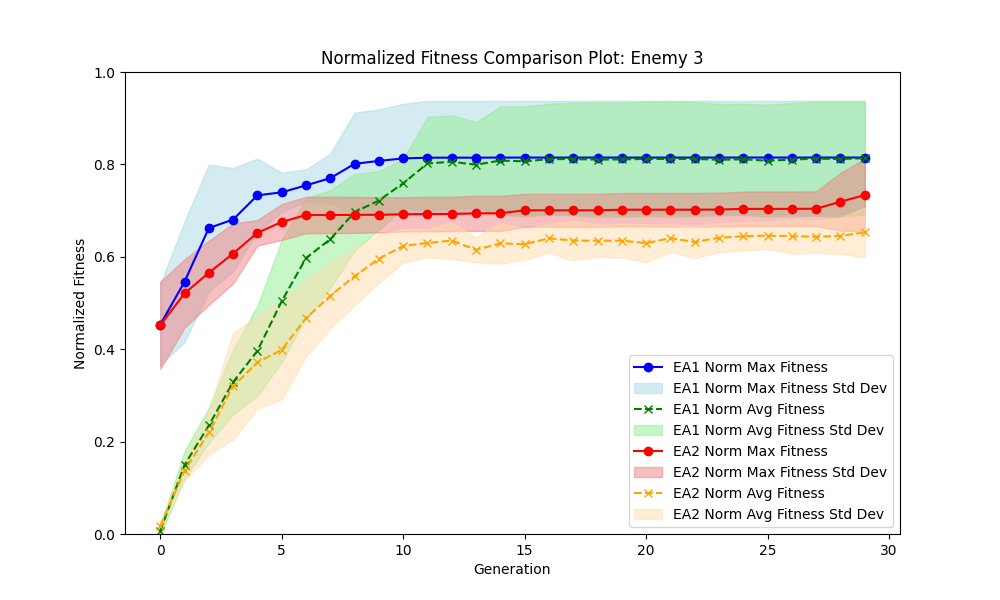
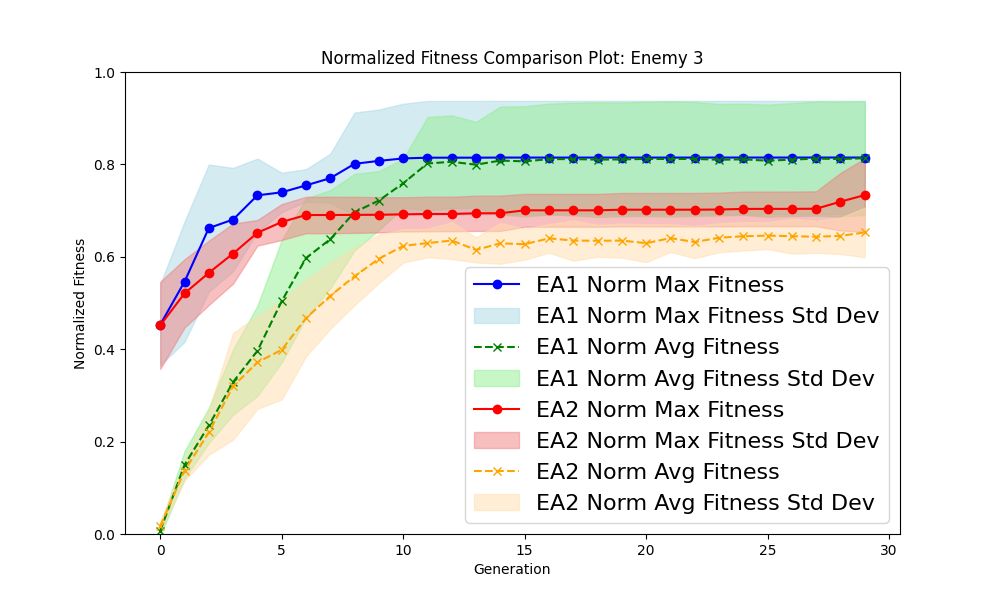
plot updates

Changed region(s): [[0.465, 0.57, 0.899, 0.9], [0.465, 0.45, 0.899, 0.54]]

diff --git a/plot_ea_stats.py b/plot_ea_stats.py
@@ -8,7 +8,7 @@ n_runs = 10
 n_generations = 30
 eas = [1, 2]
 enemies = [2, 3, 5]
-random_start = True
+random_start = False
 directory = f'runs/{"random/" if random_start else ""}'
 
 # Create experiment directory if it doesn't exist
@@ -124,7 +124,7 @@ for enemy in enemies:
     plt.yticks(np.arange(0, 121, 20))
     plt.xlabel('Generation')
     plt.ylabel('Fitness')
-    plt.legend()
+    plt.legend(fontsize=16)
     plt.savefig(f'runs/{"random/" if random_start else ""}plots/enemy{enemy}_regular_fitness_comparison_plot.png')
     plt.show()
 
@@ -164,6 +164,6 @@ for enemy in enemies:
     plt.yticks(np.arange(0, 1.1, 0.2))
     plt.xlabel('Generation')
     plt.ylabel('Normalized Fitness')
-    plt.legend()
+    plt.legend(fontsize=16)
     plt.savefig(f'runs/{"random/" if random_start else ""}plots/enemy{enemy}_normalized_fitness_comparison_plot.png')
     plt.show()

diff --git a/tested_best_genomes_plots.py b/tested_best_genomes_plots.py
@@ -35,9 +35,7 @@ plt.ylabel('Gain')
 # Adjust x-axis ticks to only show the unique enemy values
 unique_enemies = sorted(flattened_df['enemy'].unique())
 plt.xticks(ticks=range(len(unique_enemies)), labels=unique_enemies)
-
-# Show the legend for EA algorithms
-plt.legend(title='EA')
+plt.legend(title='EA', title_fontsize="16", fontsize=16)
 
 # Save or show the figure
 plt.tight_layout()
